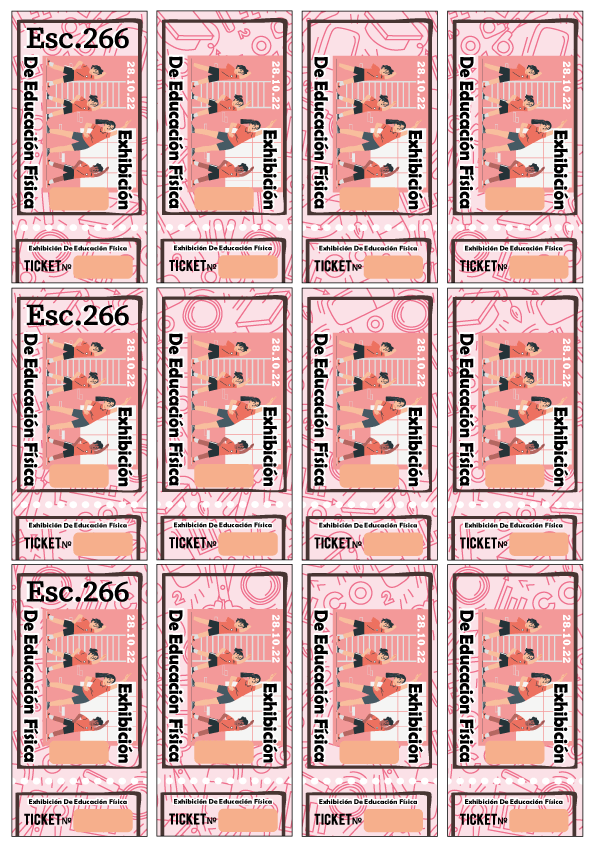
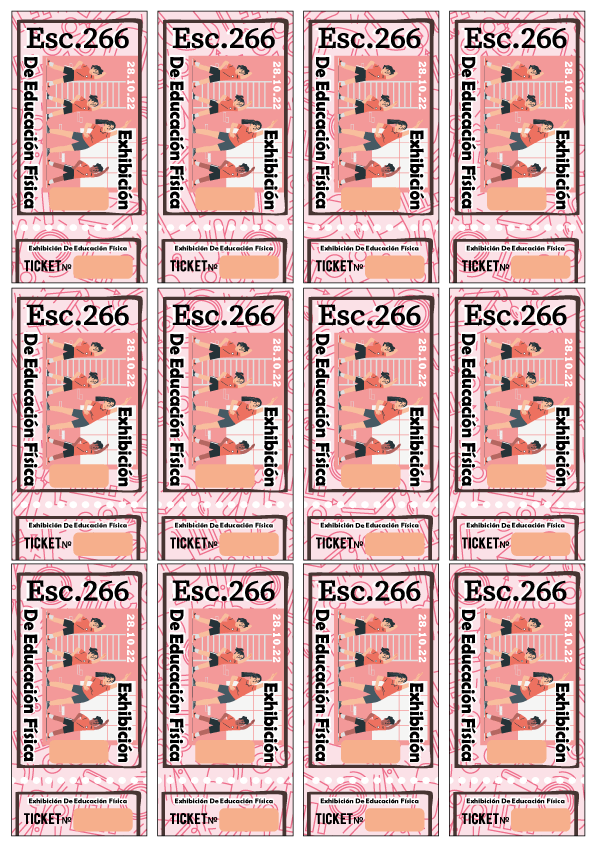
Termine de acomodar

Changed region(s): [[0.0, 0.0, 0.9983, 1.0]]

diff --git a/index.html b/index.html
@@ -4,11 +4,141 @@
     <meta charset="UTF-8">
     <meta http-equiv="X-UA-Compatible" content="IE=edge">
     <meta name="viewport" content="width=device-width, initial-scale=1.0">
-    <link rel="stylesheet" href="index.css">
+    <script src="https://cdnjs.cloudflare.com/ajax/libs/jspdf/2.5.1/jspdf.umd.min.js" integrity="sha512-qZvrmS2ekKPF2mSznTQsxqPgnpkI4DNTlrdUmTzrDgektczlKNRRhy5X5AAOnx5S09ydFYWWNSfcEqDTTHgtNA==" crossorigin="anonymous" referrerpolicy="no-referrer"></script>
+    <script src="https://cdnjs.cloudflare.com/ajax/libs/html2canvas/1.4.1/html2canvas.min.js" integrity="sha512-BNaRQnYJYiPSqHHDb58B0yaPfCu+Wgds8Gp/gU33kqBtgNS4tSPHuGibyoeqMV/TJlSKda6FXzoEyYGjTe+vXA==" crossorigin="anonymous" referrerpolicy="no-referrer"></script>
     <title>Document</title>
 </head>
 <body>
-    <div id="canvas">
+    <style>
+        #canvas{
+    width: 595px;
+    height: 842px;
+    background-image: url("./1.png");
+    position: relative;
+}
+.numero{
+    position: absolute;
+}
+
+/* Primeros 8 */
+#n1{
+    right: 497px;
+    bottom: 631px;
+}
+#n2{
+    right: 477px;
+    bottom: 562px;
+}
+
+#n3{
+    right: 353px;
+    bottom: 631px;
+}
+#n4{
+    right: 331px;
+    bottom: 562px;
+}
+
+#n5{
+    right: 209px;
+    bottom: 631px;
+}
+#n6{
+    right: 185px;
+    bottom: 562px;
+}
+
+#n7{
+    right: 65px;
+    bottom: 631px;
+}
+#n8{
+    right: 39px;
+    bottom: 562px;
+}
+
+/* Primeros 8 */
+/* Segundos 8 */
+
+#n9{
+    right: 497px;
+    bottom: 355px;
+}
+#n10{
+    right: 477px;
+    bottom: 287px;
+}
+
+#n11{
+    right: 353px;
+    bottom: 355px;
+}
+#n12{
+    right: 331px;
+    bottom: 287px;
+}
+
+#n13{
+    right: 209px;
+    bottom: 355px;
+}
+#n14{
+    right: 185px;
+    bottom: 287px;
+}
+
+#n15{
+    right: 65px;
+    bottom: 355px;
+}
+#n16{
+    right: 39px;
+    bottom: 287px;
+}
+
+/* Segundos 8 */
+/* Terceros 8 */
+
+#n17{
+    right: 497px;
+    bottom: 79px;
+}
+#n18{
+    right: 477px;
+    bottom: 10px;
+}
+
+#n19{
+    right: 353px;
+    bottom: 79px;
+}
+#n20{
+    right: 331px;
+    bottom: 10px;
+}
+
+#n21{
+    right: 209px;
+    bottom: 79px;
+}
+#n22{
+    right: 185px;
+    bottom: 10px;
+}
+
+#n23{
+    right: 65px;
+    bottom: 78px;
+}
+#n24{
+    right: 39px;
+    bottom: 10px;
+}
+
+/* Terceros 8 */
+    </style>
+    <div src="./1.png" id="canvas">
+        <img src="./1.png" id="imagen" alt="">
         <div class="numero" id="n1">1</div>
         <div class="numero" id="n2">1</div>
         <div class="numero" id="n3">2</div>
@@ -39,6 +169,25 @@
     <button id="amarillo">Amarillo</button>
     <button id="rosa">Rosa</button>
     <button id="azul">Azul</button>
+    <button id="pdf">PDF</button>
+    <script>
+        
+        pdf.addEventListener("click", (e)=>{
+        let doc = new jspdf.jsPDF("p", "mm", [297, 210])
+        let margin = 0
+        let scale = (doc.internal.pageSize.width - margin *2) / canvas.scrollWidth
+         doc.html(document.getElementById("canvas"), {
+        x:margin,
+        y:margin,
+        html2canvas: {
+            scale: scale
+        },
+        callback: function(doc){
+            doc.output("dataurlnewwindow", {filename: "tarjetas.pdf"})
+        }
+    })
+})
+    </script>
     <script src="./index.js"></script>
 </body>
 </html>

diff --git a/index.js b/index.js
@@ -4,7 +4,9 @@ const rosa = document.getElementById("rosa")
 const amarillo = document.getElementById("amarillo")
 const azul = document.getElementById("azul")
 const canvas = document.getElementById("canvas")
-
+const pdf = document.getElementById("pdf")
+let numeroinicial = 1
+let numerofinal = 12
 
 const cambiaValores =(operacion)=>{
     const nodos=document.getElementsByClassName("numero")
@@ -22,6 +24,7 @@ const cambiaValores =(operacion)=>{
 }
 
 
+
 sumar.addEventListener("click", ()=>{
     cambiaValores("mas") 
 })
@@ -29,11 +32,11 @@ resta.addEventListener("click", ()=>{
     cambiaValores() 
 })
 rosa.addEventListener("click", ()=>{
-    canvas.style.backgroundImage = "url('./3.png')";
+    imagen.src = "./3.png";
 })
 amarillo.addEventListener("click", ()=>{
-    canvas.style.backgroundImage = "url('./1.png')";
+    imagen.src = "./1.png";
 })
 azul.addEventListener("click", ()=>{
-    canvas.style.backgroundImage = "url('./2.png')";
+    imagen.src = "./2.png";
 })
